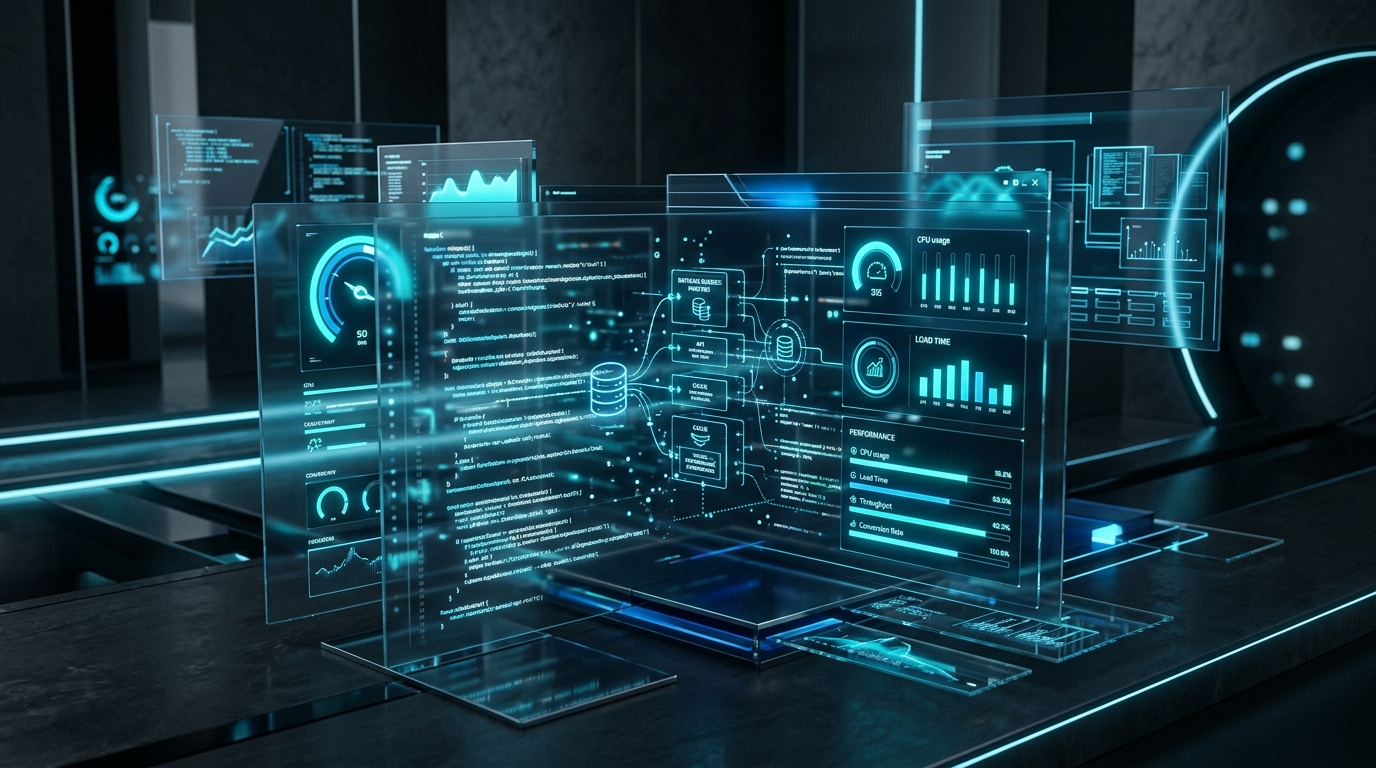
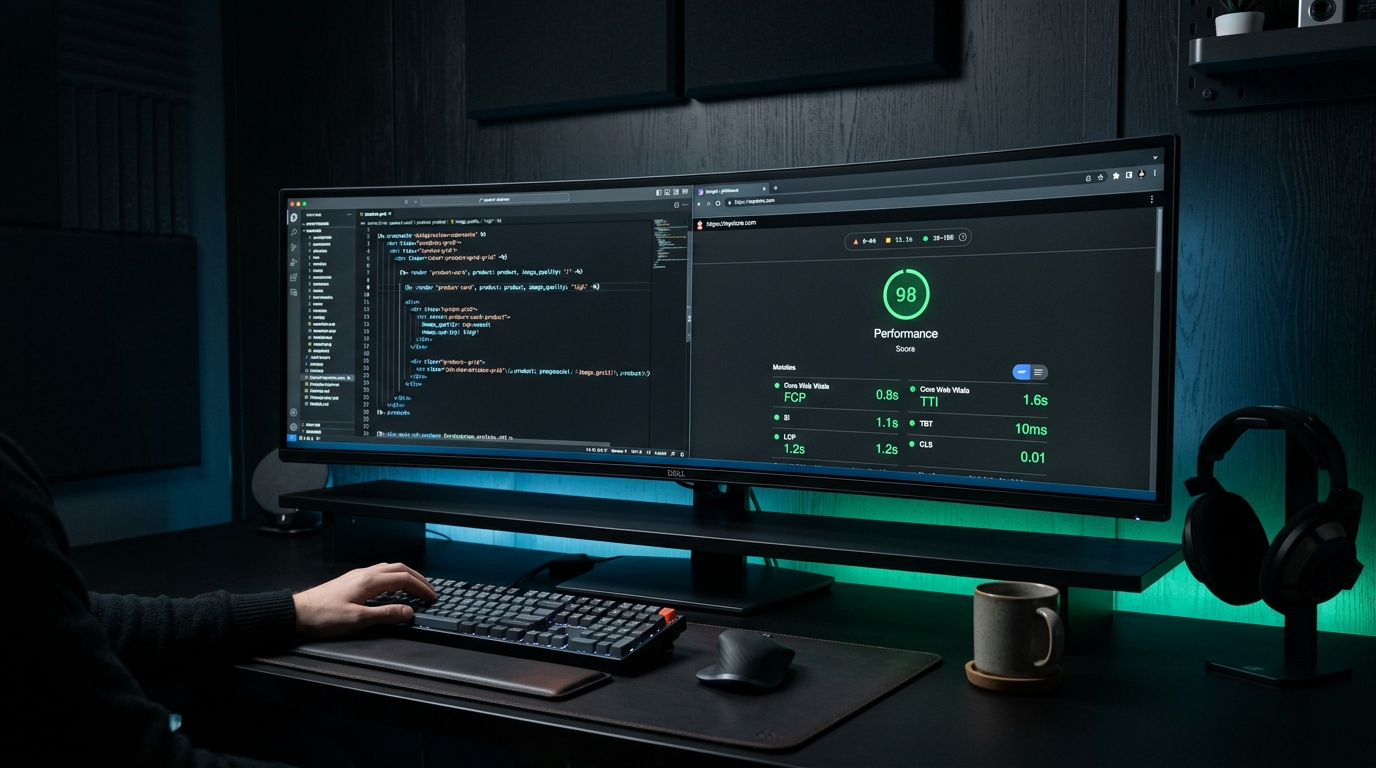
feat: add 2 technical SEO blog articles and replace all blog images with topic-specific developer studio imagery

diff --git a/src/lib/posts.ts b/src/lib/posts.ts
@@ -316,7 +316,7 @@ By enforcing fixed aspect-ratio image containers in Tailwind CSS and pre-allocat
     summary:
       "A deep engineering breakdown of how unoptimized Liquid loops, nested queries, and third-party script fatigue destroy store conversion rates—and how to fix them.",
     coverImage:
-      "https://res.cloudinary.com/daysiptql/image/upload/v1792390736/portfolio/blog/shopify_speed_liquid.jpg",
+      "https://res.cloudinary.com/daysiptql/image/upload/v1792400215/portfolio/blog/shopify_speed_liquid.jpg",
     category: "Shopify & Liquid",
     tags: ["Shopify Performance", "Liquid Optimization", "Core Web Vitals", "Web Architecture"],
     publishedAt: "2026-02-14T00:00:00.000Z",
@@ -403,7 +403,7 @@ High-converting eCommerce engineering is about **subtraction, not addition**. By
     summary:
       "Beyond generic chatbots: practical ways modern software engineers leverage AI for automated catalog enrichment, real-time visual search, and predictive personalized merchandising.",
     coverImage:
-      "https://res.cloudinary.com/daysiptql/image/upload/v1792390742/portfolio/blog/ecommerce_ai_future.jpg",
+      "https://res.cloudinary.com/daysiptql/image/upload/v1792400217/portfolio/blog/ecommerce_ai_future.jpg",
     category: "AI & Automation",
     tags: ["AI in Commerce", "Shopify API", "Automation", "Future of Web"],
     publishedAt: "2026-03-01T00:00:00.000Z",
@@ -459,7 +459,7 @@ AI shouldn't replace your brand identity—it should eliminate operational frict
     summary:
       "When does a brand actually need a Next.js headless storefront, and when is native Shopify Liquid the faster, more profitable choice? A realistic breakdown without the tech hype.",
     coverImage:
-      "https://res.cloudinary.com/daysiptql/image/upload/v1792390745/portfolio/blog/headless_vs_liquid.jpg",
+      "https://res.cloudinary.com/daysiptql/image/upload/v1792400219/portfolio/blog/headless_vs_liquid.jpg",
     category: "Full-Stack & Next.js",
     tags: ["Headless Commerce", "Next.js", "Shopify Storefront API", "Architecture"],
     publishedAt: "2026-01-20T00:00:00.000Z",
@@ -510,6 +510,189 @@ Choose headless architecture if:
 ## Conclusion
 
 Great software engineering is not about using the newest, most complex stack. It is about **choosing the highest-leverage tool that drives the greatest business profit with the lowest maintenance burden.**
+    `,
+  },
+
+  // 4. Shopify Technical SEO & Structured Data Guide
+  {
+    title: "The Ultimate Shopify Technical SEO Guide: Schema Markup, JSON-LD & Crawl Budget in 2026",
+    slug: "shopify-technical-seo-schema-markup-crawl-budget-guide",
+    type: "blog",
+    summary:
+      "A senior engineer's masterclass on Shopify technical SEO: fixing collection pagination canonicals, implementing rich JSON-LD Product & Review schemas, and optimizing crawl budget for 10,000+ SKU catalogs.",
+    coverImage:
+      "https://res.cloudinary.com/daysiptql/image/upload/v1792400220/portfolio/blog/shopify_technical_seo.jpg",
+    category: "Shopify SEO & Growth",
+    tags: ["Shopify SEO", "JSON-LD Schema", "Technical SEO", "Crawl Budget", "Rich Snippets", "eCommerce Growth"],
+    publishedAt: "2026-03-15T00:00:00.000Z",
+    isPublished: true,
+    readingTime: "8 min read",
+    authorName: "Zakaria Bin Moti",
+    authorRole: "Lead Software Engineer & Shopify Architect",
+    content: `
+Most eCommerce merchants believe SEO is just writing keyword-stuffed product descriptions and building backlinks.
+
+For modern 7-figure stores, **technical architecture is the true SEO battlefield**. If Googlebot cannot parse your collection hierarchies, wastes crawl budget on infinite faceted filter URLs, or encounters broken JSON-LD syntax, your organic rankings will continuously deteriorate regardless of content quality.
+
+Having engineered and audited over 250+ production Shopify storefronts, here is the complete technical SEO playbook I implement for enterprise clients.
+
+---
+
+## 1. The Duplicate Collection URL Flaw (And The 1-Line Liquid Fix)
+
+By default, Shopify links products within collections using the nested collection path:
+\`\`\`
+/collections/mens-leather-boots/products/timberland-pro-boot
+\`\`\`
+While the canonical tag points to \`/products/timberland-pro-boot\`, internal link equity is diluted across thousands of duplicate URLs, and Google's crawl budget is squandered crawling duplicate variants.
+
+### The Pure Liquid Fix
+In your collection grid product cards (\`product-card.liquid\` or \`card-product.liquid\`), update the product URL filter from \`product.url\` to \`product.url | within: nil\`:
+
+\`\`\`liquid
+{% comment %} ❌ BAD: Generates /collections/xyz/products/abc {% endcomment %}
+<a href="{{ product.url }}">{{ product.title }}</a>
+
+{% comment %} ✅ CORRECT: Always points directly to canonical root {% endcomment %}
+<a href="{{ product.url | within: nil }}">{{ product.title }}</a>
+\`\`\`
+This single architectural change consolidates 100% of internal link equity directly to your primary product canonicals.
+
+---
+
+## 2. Dynamic JSON-LD Structured Data for Google Rich Snippets
+
+Google Search Results with **star ratings, price in-stock badges, and merchant attributes** receive up to **35% higher click-through rates (CTR)** than plain text links.
+
+Do not rely on bloated SEO apps that inject render-blocking JavaScript to print schema markup. Instead, render pure JSON-LD server-side directly in Liquid:
+
+\`\`\`liquid
+<script type="application/ld+json">
+{
+  "@context": "https://schema.org/",
+  "@type": "Product",
+  "name": {{ product.title | json }},
+  "image": [{{ product.featured_image | image_url: width: 1200 | json }}],
+  "description": {{ product.description | strip_html | truncatewords: 40 | json }},
+  "sku": {{ product.selected_or_first_available_variant.sku | json }},
+  "brand": {
+    "@type": "Brand",
+    "name": {{ product.vendor | json }}
+  },
+  "offers": {
+    "@type": "Offer",
+    "priceCurrency": {{ cart.currency.iso_code | json }},
+    "price": "{{ product.selected_or_first_available_variant.price | money_without_currency | remove: ',' }}",
+    "availability": "{% if product.available %}https://schema.org/InStock{% else %}https://schema.org/OutOfStock{% endif %}",
+    "url": "{{ shop.url }}{{ product.url }}",
+    "priceValidUntil": "{{ 'now' | date: '%s' | plus: 31536000 | date: '%Y-%m-%d' }}"
+  }
+}
+</script>
+\`\`\`
+
+---
+
+## 3. Preserving Crawl Budget on Faceted Filter URLs
+
+When stores enable search and discovery filters (color, size, price, availability), Shopify generates endless URL permutations:
+\`\`\`
+/collections/jackets?filter.v.option.color=Black&filter.v.price.gte=100
+\`\`\`
+Googlebot can get trapped crawling millions of parameter variations. 
+
+### How We Handle Faceted Indexation:
+1. Ensure your \`robots.txt.liquid\` disallows query strings with \`filter.v.\` parameters.
+2. In your \`theme.liquid\`, dynamically inject \`<meta name="robots" content="noindex, follow">\` whenever collection filter parameters are detected. This allows search engines to follow links to individual products while preventing thin filter archives from polluting Google's index.
+
+---
+
+## 4. Sub-Second Core Web Vitals as a Direct Ranking Signal
+
+Google's Page Experience ranking algorithm explicitly penalizes slow mobile storefronts. If your **Largest Contentful Paint (LCP)** exceeds 2.5 seconds or **Cumulative Layout Shift (CLS)** exceeds 0.1, your rankings are suppressed against faster competitors.
+
+By keeping third-party tracking scripts deferred and pre-allocating aspect-ratio dimensions on media containers, your store secures the elusive green **90+ mobile Lighthouse score**, giving you a direct competitive edge in organic search.
+    `,
+  },
+
+  // 5. Custom Shopify Theme vs Pre-Built Themes
+  {
+    title: "Custom Shopify Theme vs. Pre-Built Themes: Why 7-Figure Brands Outgrow Off-the-Shelf Templates",
+    slug: "custom-shopify-theme-vs-prebuilt-themes-architect-guide",
+    type: "blog",
+    summary:
+      "Why relying on $350 ThemeForest or app-bloated templates destroys long-term profitability. A financial and architectural analysis of when and why high-growth DTC brands invest in bespoke Shopify development.",
+    coverImage:
+      "https://res.cloudinary.com/daysiptql/image/upload/v1792400221/portfolio/blog/custom_vs_prebuilt_theme.jpg",
+    category: "Shopify & Liquid",
+    tags: ["Custom Shopify Theme", "Shopify Development", "eCommerce ROI", "Web Architecture", "CRO"],
+    publishedAt: "2026-03-22T00:00:00.000Z",
+    isPublished: true,
+    readingTime: "7 min read",
+    authorName: "Zakaria Bin Moti",
+    authorRole: "Lead Software Engineer & Shopify Architect",
+    content: `
+When launching a brand on Shopify, buying a $350 off-the-shelf theme from the Shopify Theme Store or ThemeForest is the standard recommendation.
+
+For early-stage stores doing under $10,000 a month, pre-built themes are adequate. But once a brand scales past **$50,000 to $500,000+ a month**, that pre-built theme shifts from an asset into your largest commercial bottleneck.
+
+Here is an architectural and financial breakdown of why 7-figure eCommerce brands outgrow pre-built themes, and the exact mathematical ROI of bespoke engineering.
+
+---
+
+## 1. The "Feature Bloat" Tax of Multi-Purpose Themes
+
+Commercial theme marketplaces compete on feature lists. To appeal to fashion stores, electronics retailers, and pet supply brands simultaneously, a single pre-built theme includes:
+* 50+ unused mega-menu variations
+* Redundant jQuery animation libraries
+* Heavy slider scripts (Slick, Swiper, Flickity bundled together)
+* 5,000+ lines of uncompressed generic CSS
+
+**Over 80% of the code downloaded by a mobile shopper's phone is never used.** This unneeded bloat drags mobile Google Lighthouse scores down to 30-45/100, which according to Google, slashes mobile conversion rates by 20% to 35%.
+
+---
+
+## 2. The Third-Party App Trap ($3,000+ / Year in Hidden Costs)
+
+Because off-the-shelf themes cannot accommodate brand-specific business logic, founders install an app for every missing feature:
+* An app for countdown timers ($15/mo)
+* An app for product tabs ($10/mo)
+* An app for slide-out cart upsells ($30/mo)
+* An app for swatch selectors ($20/mo)
+* An app for size charts ($10/mo)
+
+Within 12 months, the merchant is paying **$2,500 – $5,000 annually** in recurring app fees. More critically, each app injects separate tracking scripts that conflict with one another, causing random checkout crashes and layout shifts.
+
+### The Bespoke Alternative
+In a custom-built Shopify OS 2.0 theme, every single one of these components is built **100% natively in pure Liquid and modern Vanilla JavaScript**. The store achieves sub-second performance, zero third-party subscription overhead, and complete brand control.
+
+---
+
+## 3. The Financial Mathematics of Custom Development
+
+Consider a Shopify store generating **$150,000 / month** on a generic theme with a 2.1% conversion rate and a 4.2-second load time.
+
+\`\`\`
+Current Store Performance:
+• Monthly Revenue: $150,000
+• Conversion Rate: 2.1%
+• Page Load Time: 4.2s (Lighthouse: 39/100)
+
+After Custom Architecture Overhaul:
+• Page Load Time: 0.8s (Lighthouse: 97/100)
+• Conservative CRO Lift (+0.5%): New CVR 2.6%
+• Monthly Revenue Lift: +$35,700 / month
+• Annual Incremental Profit: +$428,400 / year
+\`\`\`
+
+A bespoke theme engineering engagement ($8k – $20k) pays for itself within **30 to 60 days**. From that point forward, the lift in conversion rate is pure profit compounding every month.
+
+---
+
+## Conclusion: When Should You Invest in a Custom Theme?
+
+* **Stay with pre-built if:** You are pre-revenue, validating product-market fit, or doing under $15k/month.
+* **Invest in bespoke engineering if:** You are scaling paid ads (Meta/Google), your mobile Lighthouse score is below 60, you are bleeding thousands in app subscriptions, or your brand identity requires a bespoke luxury experience that pre-built templates cannot replicate.
     `,
   },
 ];
